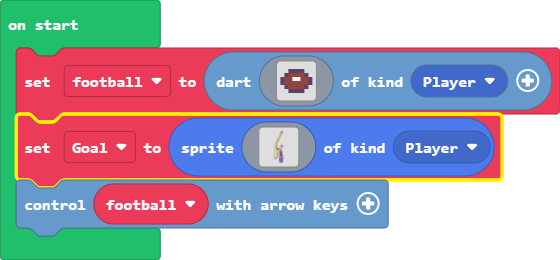
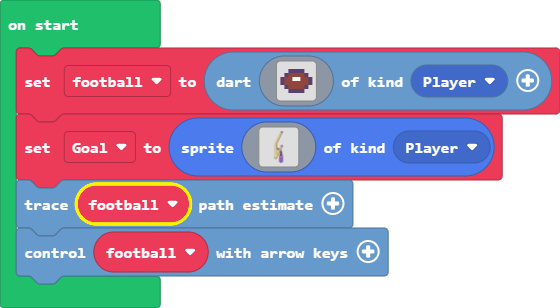
Update main.blocks, main.ts

diff --git a/main.ts b/main.ts
@@ -65,4 +65,5 @@ let Goal = sprites.create(img`
     ..........6aaa6.
     ...........666..
     `, SpriteKind.Player)
+football.setTrace()
 football.controlWithArrowKeys()
